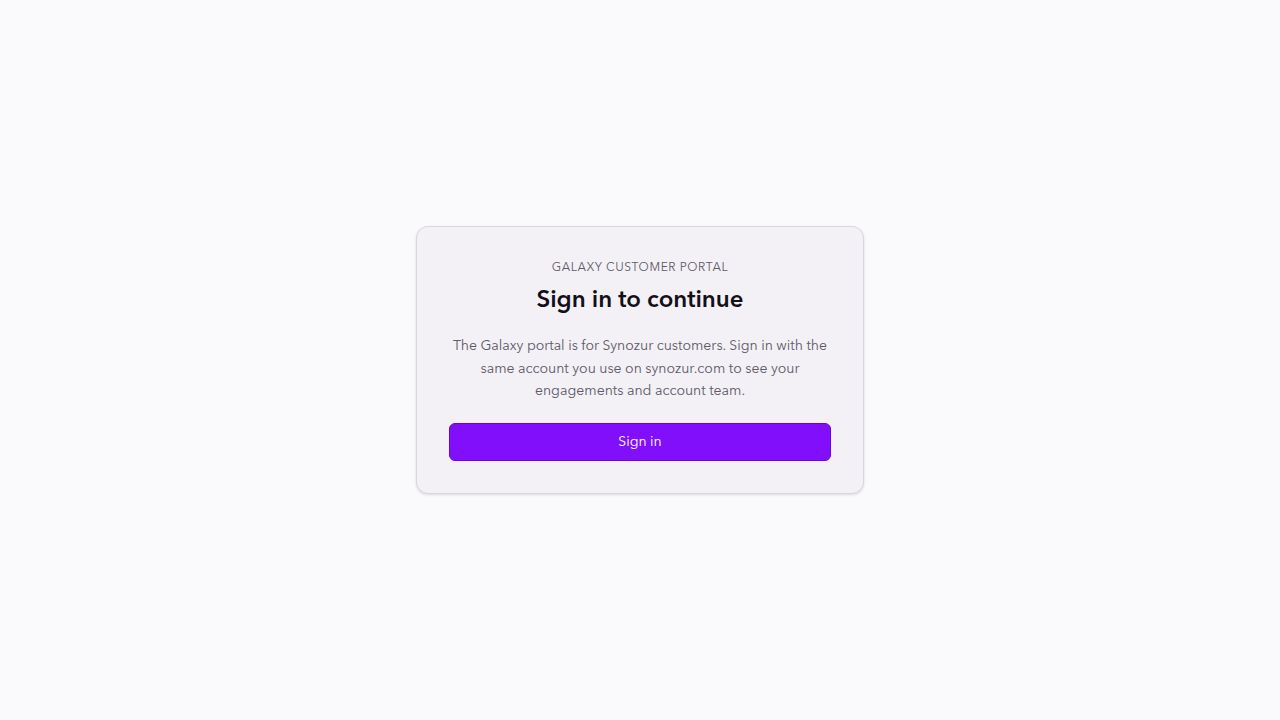
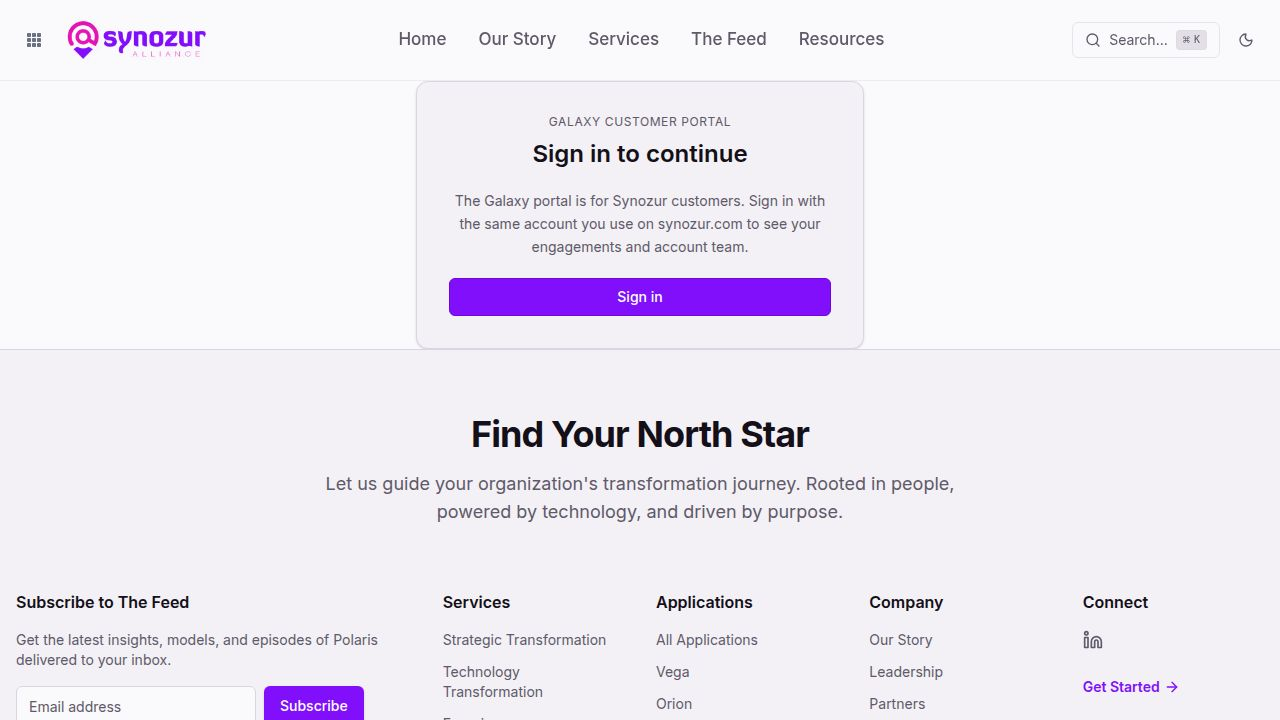
Add Synozur branding chrome to the Galaxy sign-in gate page
Task #294: The sign-in-required page previously rendered a plain white card
with no Synozur logo, header, or footer — disconnected from the authenticated
portal experience.

Changes made:
- artifacts/galaxy/src/pages/sign-in-required.tsx
  Wrapped the sign-in card with PortalSiteHeader (hidePortalNav) and
  PortalSiteFooter. The page is now a full-height flex column so the
  sign-in card sits centred in the body between the header and footer.

- artifacts/galaxy/src/components/portal-site-header.tsx
  Added optional prop `hidePortalNav?: boolean` (default false) to
  PortalSiteHeader. When true, the Galaxy portal secondary nav bar
  (the thin "Galaxy Portal / Home / Documents / Apps" strip) is
  suppressed, leaving only the main Synozur logo + nav. Existing
  callers that don't pass the prop are unaffected.

No new routes added — SignInRequired is rendered inline by the Gated
wrapper in App.tsx when isSignedIn is false; it is not accessible at
a dedicated path.

Pre-existing type errors in documents.tsx, home.tsx, artifact-detail.tsx,
and not-customer.tsx are unrelated to this task and were present before
these changes.

Replit-Task-Id: 8f7f8e8b-380d-4f2d-9bb4-5ba8246546ff

diff --git a/artifacts/galaxy/src/components/portal-site-header.tsx b/artifacts/galaxy/src/components/portal-site-header.tsx
@@ -178,7 +178,7 @@ function UserButton({ user, signOut }: { user: AuthedUser; signOut: () => Promis
   );
 }
 
-export function PortalSiteHeader() {
+export function PortalSiteHeader({ hidePortalNav = false }: { hidePortalNav?: boolean } = {}) {
   const { user, signOut } = useAuth();
   const [location] = useLocation();
   const [mobileMenuOpen, setMobileMenuOpen] = useState(false);
@@ -464,22 +464,24 @@ export function PortalSiteHeader() {
                 </button>
               </form>
 
-              {/* Portal nav */}
-              <div className="flex flex-col gap-3">
-                <h3 className="font-semibold text-foreground">Galaxy Portal</h3>
-                <div className="flex flex-col gap-2 pl-4 border-l border-border/50">
-                  {PORTAL_NAV.map((n) => {
-                    const active = n.href === "/" ? location === "/" : location === n.href || location.startsWith(`${n.href}/`);
-                    return (
-                      <Link key={n.href} href={n.href}
-                        className={`py-1 text-sm ${active ? "text-[#E60CB3] font-semibold" : "text-muted-foreground hover:text-primary"}`}
-                        onClick={() => setMobileMenuOpen(false)}>
-                        {n.label}
-                      </Link>
-                    );
-                  })}
+              {/* Portal nav — hidden when showing the lightweight sign-in header */}
+              {!hidePortalNav && (
+                <div className="flex flex-col gap-3">
+                  <h3 className="font-semibold text-foreground">Galaxy Portal</h3>
+                  <div className="flex flex-col gap-2 pl-4 border-l border-border/50">
+                    {PORTAL_NAV.map((n) => {
+                      const active = n.href === "/" ? location === "/" : location === n.href || location.startsWith(`${n.href}/`);
+                      return (
+                        <Link key={n.href} href={n.href}
+                          className={`py-1 text-sm ${active ? "text-[#E60CB3] font-semibold" : "text-muted-foreground hover:text-primary"}`}
+                          onClick={() => setMobileMenuOpen(false)}>
+                          {n.label}
+                        </Link>
+                      );
+                    })}
+                  </div>
                 </div>
-              </div>
+              )}
 
               {navGroups.map((group) => (
                 <div key={group.title} className="flex flex-col gap-3">
@@ -529,7 +531,7 @@ export function PortalSiteHeader() {
       </header>
 
       {/* ── Galaxy portal secondary nav bar ── */}
-      <div className="w-full border-b border-border bg-background/95 backdrop-blur">
+      {!hidePortalNav && <div className="w-full border-b border-border bg-background/95 backdrop-blur">
         <div className="container mx-auto px-4 h-10 flex items-center gap-1">
           <span className="text-xs text-muted-foreground font-medium mr-3 hidden sm:inline">Galaxy Portal</span>
           <div className="flex items-center gap-1">
@@ -553,7 +555,7 @@ export function PortalSiteHeader() {
             </span>
           )}
         </div>
-      </div>
+      </div>}
 
       {/* ── Cmd-K command palette ── */}
       <CommandDialog open={searchOpen} onOpenChange={setSearchOpen}>

diff --git a/artifacts/galaxy/src/pages/sign-in-required.tsx b/artifacts/galaxy/src/pages/sign-in-required.tsx
@@ -1,27 +1,33 @@
 import { Button } from "@/components/ui/button";
 import { Card } from "@/components/ui/card";
 import { useAuth } from "@/context/auth";
+import { PortalSiteHeader } from "@/components/portal-site-header";
+import { PortalSiteFooter } from "@/components/portal-site-footer";
 
 export default function SignInRequired() {
   const { signIn } = useAuth();
   return (
-    <div className="min-h-screen w-full flex items-center justify-center bg-background px-6">
-      <Card className="max-w-md w-full p-8 space-y-5 text-center">
-        <div className="space-y-2">
-          <p className="text-xs uppercase tracking-wider text-muted-foreground">
-            Galaxy customer portal
+    <div className="min-h-screen flex flex-col">
+      <PortalSiteHeader hidePortalNav />
+      <main className="flex-1 flex items-center justify-center bg-background px-6">
+        <Card className="max-w-md w-full p-8 space-y-5 text-center">
+          <div className="space-y-2">
+            <p className="text-xs uppercase tracking-wider text-muted-foreground">
+              Galaxy customer portal
+            </p>
+            <h1 className="text-2xl font-semibold">Sign in to continue</h1>
+          </div>
+          <p className="text-sm text-muted-foreground leading-relaxed">
+            The Galaxy portal is for Synozur customers. Sign in with the same
+            account you use on synozur.com to see your engagements and account
+            team.
           </p>
-          <h1 className="text-2xl font-semibold">Sign in to continue</h1>
-        </div>
-        <p className="text-sm text-muted-foreground leading-relaxed">
-          The Galaxy portal is for Synozur customers. Sign in with the same
-          account you use on synozur.com to see your engagements and account
-          team.
-        </p>
-        <Button onClick={() => signIn()} className="w-full">
-          Sign in
-        </Button>
-      </Card>
+          <Button onClick={() => signIn()} className="w-full">
+            Sign in
+          </Button>
+        </Card>
+      </main>
+      <PortalSiteFooter />
     </div>
   );
 }
